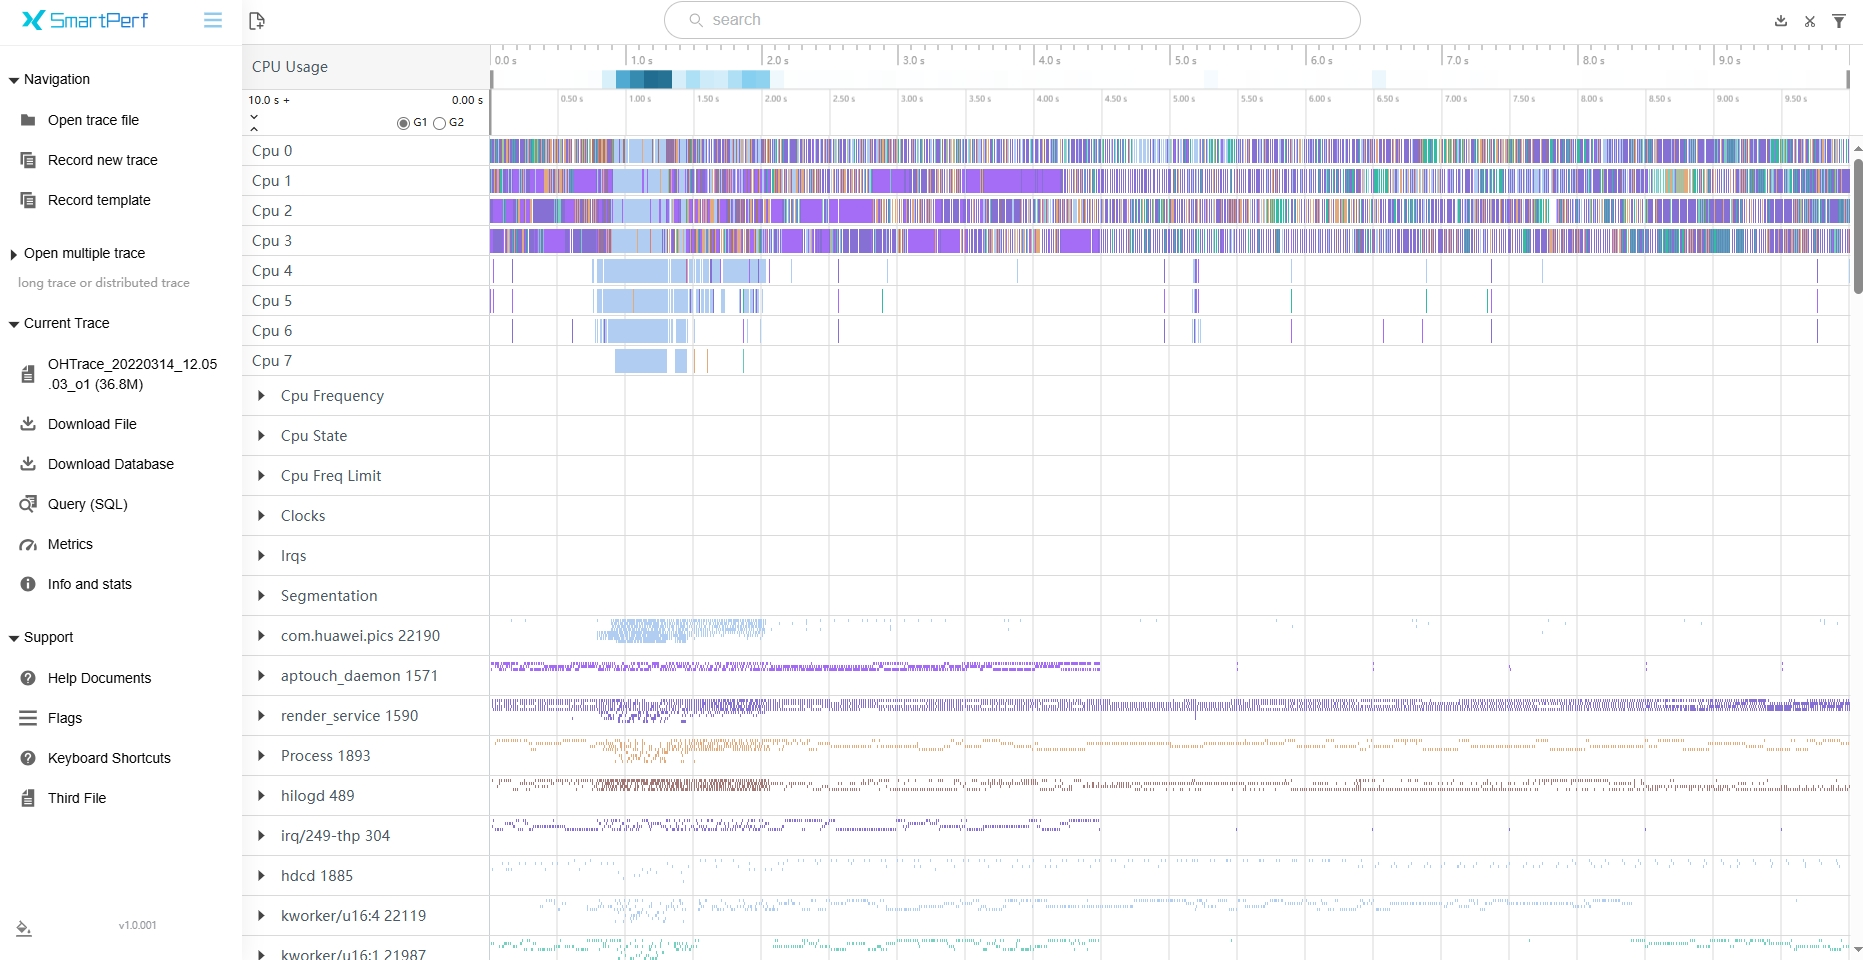
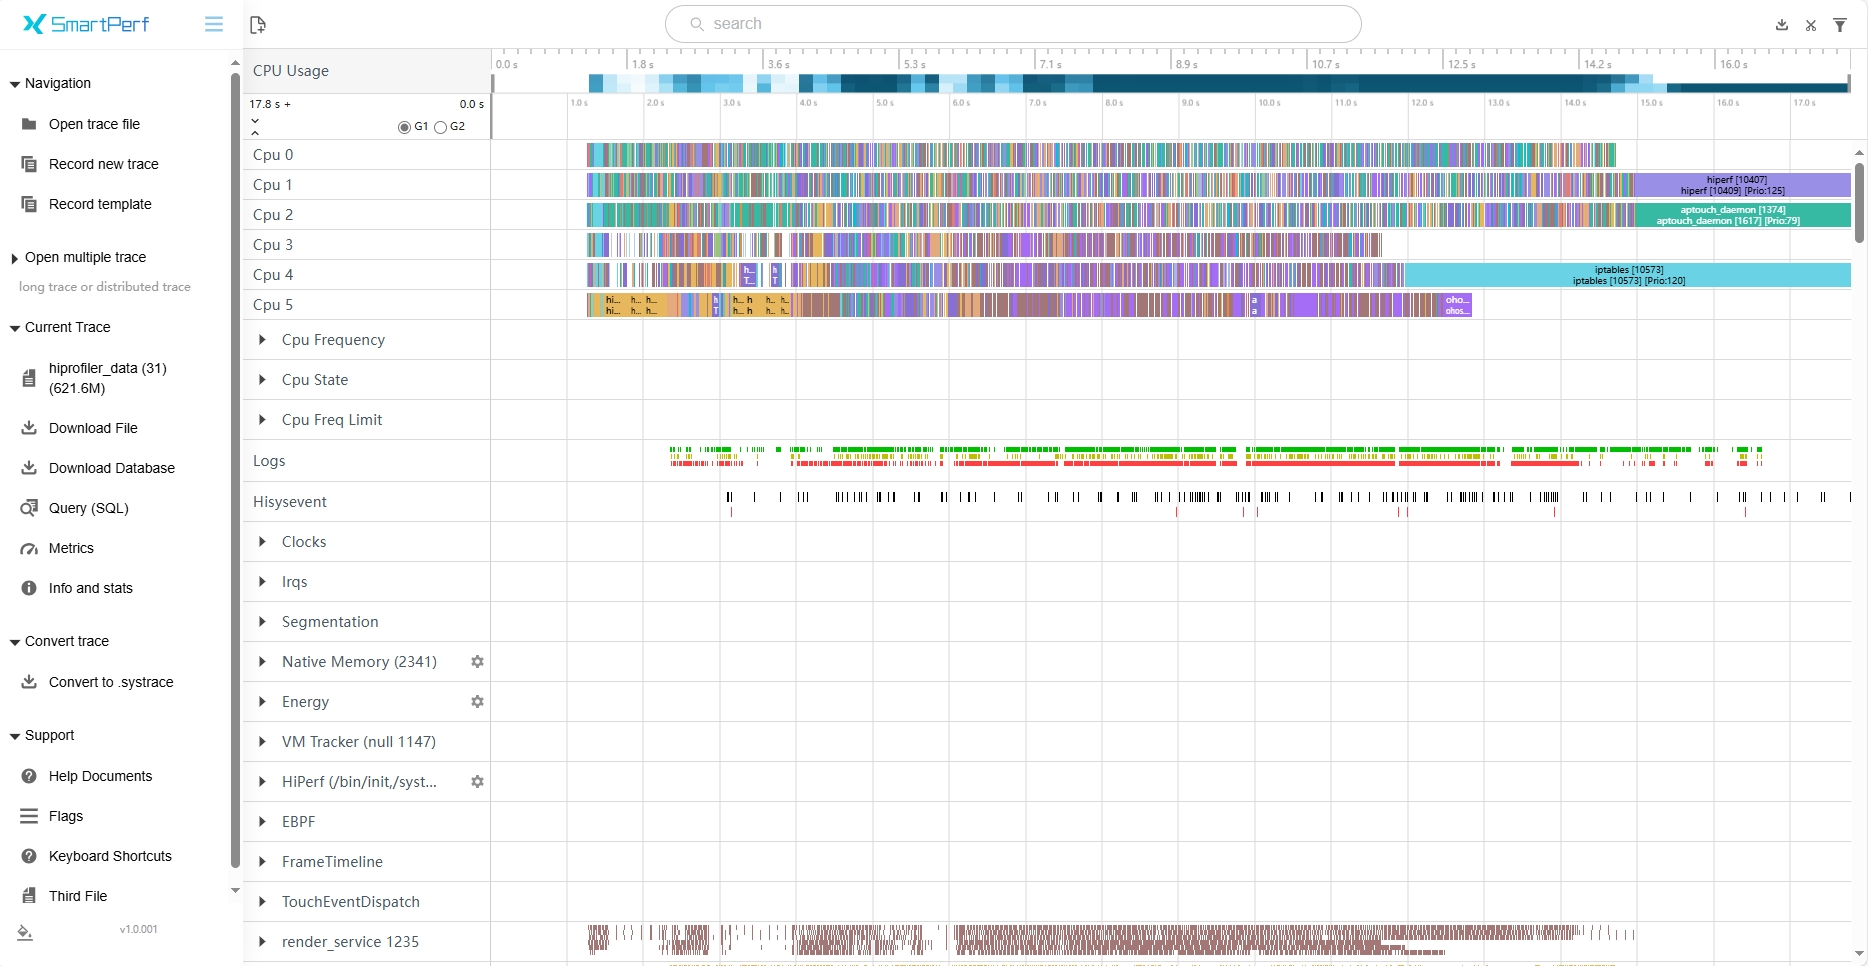
修改帮助文档

diff --git a/ide/src/doc/quickstart_filesystem.html b/ide/src/doc/quickstart_filesystem.html
@@ -957,13 +957,15 @@ Local：为该调用方法自身占用的CPU时间。
         </li>
         <li>
           <pre class="smartperf-text fontColor light">
-            Weight：为该调用方法占用的CPU时间。
-  </pre>
+Weight：为该调用方法占用的CPU时间。
+</pre
+          >
         </li>
         <li>
           <pre class="smartperf-text fontColor light">
-            %：为该调用方法占用的CPU时间占比。
-  </pre>
+%：为该调用方法占用的CPU时间占比。
+</pre
+          >
         </li>
       </ul>
       <p class="fontColor">
@@ -1004,7 +1006,7 @@ Type：操作类型。
         </li>
         <li>
           <pre class="smartperf-text fontColor light">
-File Descriptor：fd。
+File Descriptor：文件描述符。
 </pre
           >
         </li>
@@ -1089,7 +1091,13 @@ Type：操作类型。
         </li>
         <li>
           <pre class="smartperf-text fontColor light">
-File Descriptor：fd。
+File Descriptor：文件描述符。
+</pre
+          >
+        </li>
+        <li>
+          <pre class="smartperf-text fontColor light">
+Path：文件路径。
 </pre
           >
         </li>
@@ -1126,7 +1134,13 @@ Process：进程名。
         </li>
         <li>
           <pre class="smartperf-text fontColor light">
-File Descriptor：fd。
+File Descriptor：文件描述符。
+</pre
+          >
+        </li>
+        <li>
+          <pre class="smartperf-text fontColor light">
+Path：文件路径。
 </pre
           >
         </li>
@@ -1159,13 +1173,15 @@ Hide System so：隐藏系统库文件。
         </li>
         <li>
           <pre class="smartperf-text fontColor light">
-            Hide Event：隐藏事件。 
-  </pre>
+Hide Event：隐藏事件。 
+</pre
+          >
         </li>
         <li>
           <pre class="smartperf-text fontColor light">
-            Hide Thread：隐藏线程。 
-  </pre>
+Hide Thread：隐藏线程。 
+</pre
+          >
         </li>
       </ul>
       <h3 class="mume-header fontColor" id="header-index-6">FileSystem支持过滤调用栈调用次数的展示风格</h3>
@@ -1222,7 +1238,7 @@ Hide System so：隐藏系统库文件。
         <img src="../figures/FileSystem/FileSystemflame.jpg" alt="GitHub Logo" />
         <br />
         进入到火焰图页面，火焰图的展示跟 Filesystem Calltree
-        的tab页的调用栈显示一致，鼠标放到色块上，悬浮框可以显示调用栈名称和Duration时长。
+        的tab页的调用栈显示一致，鼠标放到色块上，悬浮框可以显示调用栈名称、所属Lib库、函数地址、耗时及其占比。
         <br />
         <img src="../figures/FileSystem/FileSystemflameshow.jpg" alt="GitHub Logo" />
         <br />

diff --git a/ide/src/doc/quickstart_native_memory.html b/ide/src/doc/quickstart_native_memory.html
@@ -901,19 +901,19 @@
           </pre>
         </li>
         <li>
-          <pre class="smartperf-text fontColor light">Existing：框选区域内申请没有释放的大小。
+          <pre class="smartperf-text fontColor light">Existing：框选区间内申请没有释放的大小。
           </pre>
         </li>
         <li>
-          <pre class="smartperf-text fontColor light">#Existing：框选区域内申请没有释放的次数。
+          <pre class="smartperf-text fontColor light">#Existing：框选区间内申请没有释放的次数。
           </pre>
         </li>
         <li>
-          <pre class="smartperf-text fontColor light">Transient：框选区域内释放的大小。
+          <pre class="smartperf-text fontColor light">Transient：框选区间内释放的大小。
           </pre>
         </li>
         <li>
-          <pre class="smartperf-text fontColor light">#Transient：框选区域内释放的次数。
+          <pre class="smartperf-text fontColor light">#Transient：框选区间内释放的次数。
           </pre>
         </li>
         <li>
@@ -970,7 +970,7 @@
           </pre>
         </li>
         <li>
-          <pre class="smartperf-text fontColor light">State：内存地址当前状态Existed 表示框选范围内未释放，Freed表示已释放。
+          <pre class="smartperf-text fontColor light">State：内存地址当前状态Existed 表示框选区间内未释放，Freed表示已释放。
           </pre>
         </li>
         <li>

diff --git a/ide/src/doc/md/quickstart_ability_monitor.html b/ide/src/doc/md/quickstart_ability_monitor.html
@@ -992,7 +992,7 @@ CPU Time：CPU运行时间。
         </li>
         <li>
           <pre class="language-text">
-StartTime：采集时间的时间戳。
+Start Time：采集时间的时间戳。
 </pre
           >
         </li>
@@ -1156,8 +1156,9 @@ CmaFree：空闲的可用内存。
           >
           <li>
             <pre class="smartperf-text fontColor light">
-              Zram：Zram的使用大小。
-    </pre>
+Zram：Zram的使用大小。
+</pre
+          >
           </li>
           框选 Disk Bytes Read/Sec，Disk Bytes Written/Sec，Disk Read Ops/Sec，Disk Written Ops/Sec
           四个区域的泳道图，会展示 System Disk Summary 的 Tab 页。

diff --git a/ide/src/doc/quickstart_page_fault.html b/ide/src/doc/quickstart_page_fault.html
@@ -1071,7 +1071,7 @@ Hide Thread：隐藏线程。
         <br />
         <img src="../figures/EBPF/vmflame.jpg" alt="GitHub Logo" />
         <br />
-        进入到火焰图页面，火焰图的展示跟Callinfo的tab页的调用栈显示一致，鼠标放到色块上，悬浮框可以显示调用栈名称和Duration时长。
+        进入到火焰图页面，火焰图的展示跟Callinfo的tab页的调用栈显示一致，鼠标放到色块上，悬浮框可以显示调用栈名称、所属Lib库、函数地址、耗时及其占比。
         <br />
         <img src="../figures/EBPF/vmflameshow.jpg" alt="GitHub Logo" />
         <br />

diff --git a/ide/src/doc/quickstart_ability_monitor.html b/ide/src/doc/quickstart_ability_monitor.html
@@ -1044,7 +1044,7 @@ CPU Time：CPU运行时间。
       <ul class="fontColor">
         <li>
           <pre class="smartperf-text fontColor light">
-StartTime：采集时间的时间戳。
+Start Time：采集时间的时间戳。
 </pre
           >
         </li>
@@ -1213,8 +1213,9 @@ CmaFree：空闲的可用内存。
         </li>
         <li>
           <pre class="smartperf-text fontColor light">
-            Zram：Zram的使用大小。
-  </pre>
+Zram：Zram的使用大小。
+</pre
+          >
         </li>
       </ul>
       <p class="fontColor">

diff --git a/ide/src/doc/md/quickstart_filesystem.md b/ide/src/doc/md/quickstart_filesystem.md
@@ -59,8 +59,8 @@ FileSystem statistics 的 Tab 页如图：
   ![GitHub Logo](../../figures/FileSystem/FileSystemCalltree.jpg)
 -     Call Stack：为经过符号解析后的Callstack，并且给出动态链接库或者进程名的信息。
 -     Local：为该调用方法自身占用的 CPU 时间。
--     Weight：为该调用方法占用的CPU时间。
-      %：为该调用方法占用的CPU时间占比。
+-     Weight：为该调用方法占用的 CPU 时间。
+-     %：为该调用方法占用的 CPU 时间占比。
   FileSystem Events 的 Tab 页如图：
   ![GitHub Logo](../../figures/FileSystem/FileSystemevents.jpg)
 -     Start： 起始时间。
@@ -138,7 +138,7 @@ FileSystem statistics 的 Tab 页如图：
 
 点击 FileSystem CallTree 左下角的柱状图的图标，会切换到火焰图页面。
 ![GitHub Logo](../../figures/FileSystem/FileSystemflame.jpg)
-进入到火焰图页面，火焰图的展示跟 Callinfo 的 tab 页的调用栈显示一致，鼠标放到色块上，悬浮框可以显示调用栈名称和 Duration 时长。
+进入到火焰图页面，火焰图的展示跟 Callinfo 的 tab 页的调用栈显示一致，鼠标放到色块上，悬浮框可以显示调用栈名称、所属Lib库、函数地址、耗时及其占比。
 ![GitHub Logo](../../figures/FileSystem/FileSystemflameshow.jpg)
 鼠标左键火焰图，会进入下一级界面，左键上级则返回上一级界面。
 ![GitHub Logo](../../figures/FileSystem/FileSystemflamelevel.jpg)

diff --git a/ide/src/doc/md/quickstart_native_memory.md b/ide/src/doc/md/quickstart_native_memory.md
@@ -76,10 +76,10 @@ Statistics 的 Tab 页，主要显示了统计明细类型。
 ![GitHub Logo](../../figures/NativeMemory/Statistics.png)
 
 -     Memory Type：内存的类型。
--     Existing：框选区域内申请没有释放的大小。
--     #Existing：框选区域内申请没有释放的次数。
--     Transient：框选区域内释放的大小。
--     #Transient：框选区域内释放的次数。
+-     Existing：框选区间内申请没有释放的大小。
+-     #Existing：框选区间内申请没有释放的次数。
+-     Transient：框选区间内释放的大小。
+-     #Transient：框选区间内释放的次数。
 -     Total Bytes：框选区间内申请的大小。
 -     #Total： 框选区间内申请的次数。
 -     Peak Value： 框选区间内内存申请的峰值。
@@ -99,7 +99,7 @@ Call Info 的 Tab 页，主要显示了调用树详细类型。
 -     Address：内存块的地址。
 -     Memory Type：内存分配的类型。
 -     Timestamp：时间戳信息。
--     State：内存地址当前状态Existed 表示框选范围内未释放，Freed表示已释放。
+-     State：内存地址当前状态Existed 表示框选区间内未释放，Freed表示已释放。
 -     Size：该次申请分配内存的大小。
 -     Responsible Library ：调用该函数的库。
 -     Responsible Caller  ：调用该函数的方法。

diff --git a/ide/src/doc/md/quickstart_ability_monitor.md b/ide/src/doc/md/quickstart_ability_monitor.md
@@ -76,7 +76,7 @@ Live Processes 的 Tab 页如图：
 -     CPU Time：CPU运行时间。
   框选 CPU Total Load，CPU User Load，CPU System Load 三个区域的泳道图，会展示 System CPU Summary 的 Tab 页。
   ![GitHub Logo](../../figures/AbilityMonitor/cpusummary.jpg)
--     StartTime：采集时间的时间戳。
+-     Start Time：采集时间的时间戳。
 -     Duration：前一次采集到本次采集的时间差。
 -     TotalLoad%：总的CPU使用率。
 -     UserLoad%：CPU在用户态空间运行的使用率。
@@ -105,7 +105,7 @@ Live Processes 的 Tab 页如图：
 -     VmallocTotal：可以vmalloc虚拟内存大小。
 -     CmaTotal：总的连续可用内存。
 -     CmaFree：空闲的可用内存。
-      Zram：Zram的使用大小。
+-     Zram：Zram的使用大小。
   框选 Disk Bytes Read/Sec，Disk Bytes Written/Sec，Disk Read Ops/Sec，Disk Written Ops/Sec 四个区域的泳道图，会展示 System Disk Summary 的 Tab 页。
   ![GitHub Logo](../../figures/AbilityMonitor/disktab.jpg)
 -     StartTime：采集时间的时间戳。

diff --git a/ide/src/doc/md/quickstart_page_fault.md b/ide/src/doc/md/quickstart_page_fault.md
@@ -109,7 +109,7 @@ Page Fault Statistics 的 Tab 页如图：
 
 点击 Page Fault CallTree 左下角的柱状图的图标，会切换到火焰图页面。
 ![GitHub Logo](../../figures/EBPF/vmflame.jpg)
-进入到火焰图页面，火焰图的展示跟 Callinfo 的 tab 页的调用栈显示一致，鼠标放到色块上，悬浮框可以显示调用栈名称和 Duration 时长。
+进入到火焰图页面，火焰图的展示跟 Callinfo 的 tab 页的调用栈显示一致，鼠标放到色块上，悬浮框可以显示调用栈名称、所属Lib库、函数地址、耗时及其占比。
 ![GitHub Logo](../../figures/EBPF/vmflameshow.jpg)
 鼠标左键火焰图，会进入下一级界面，左键上级则返回上一级界面。
 ![GitHub Logo](../../figures/EBPF/vmflamelevel.jpg)
